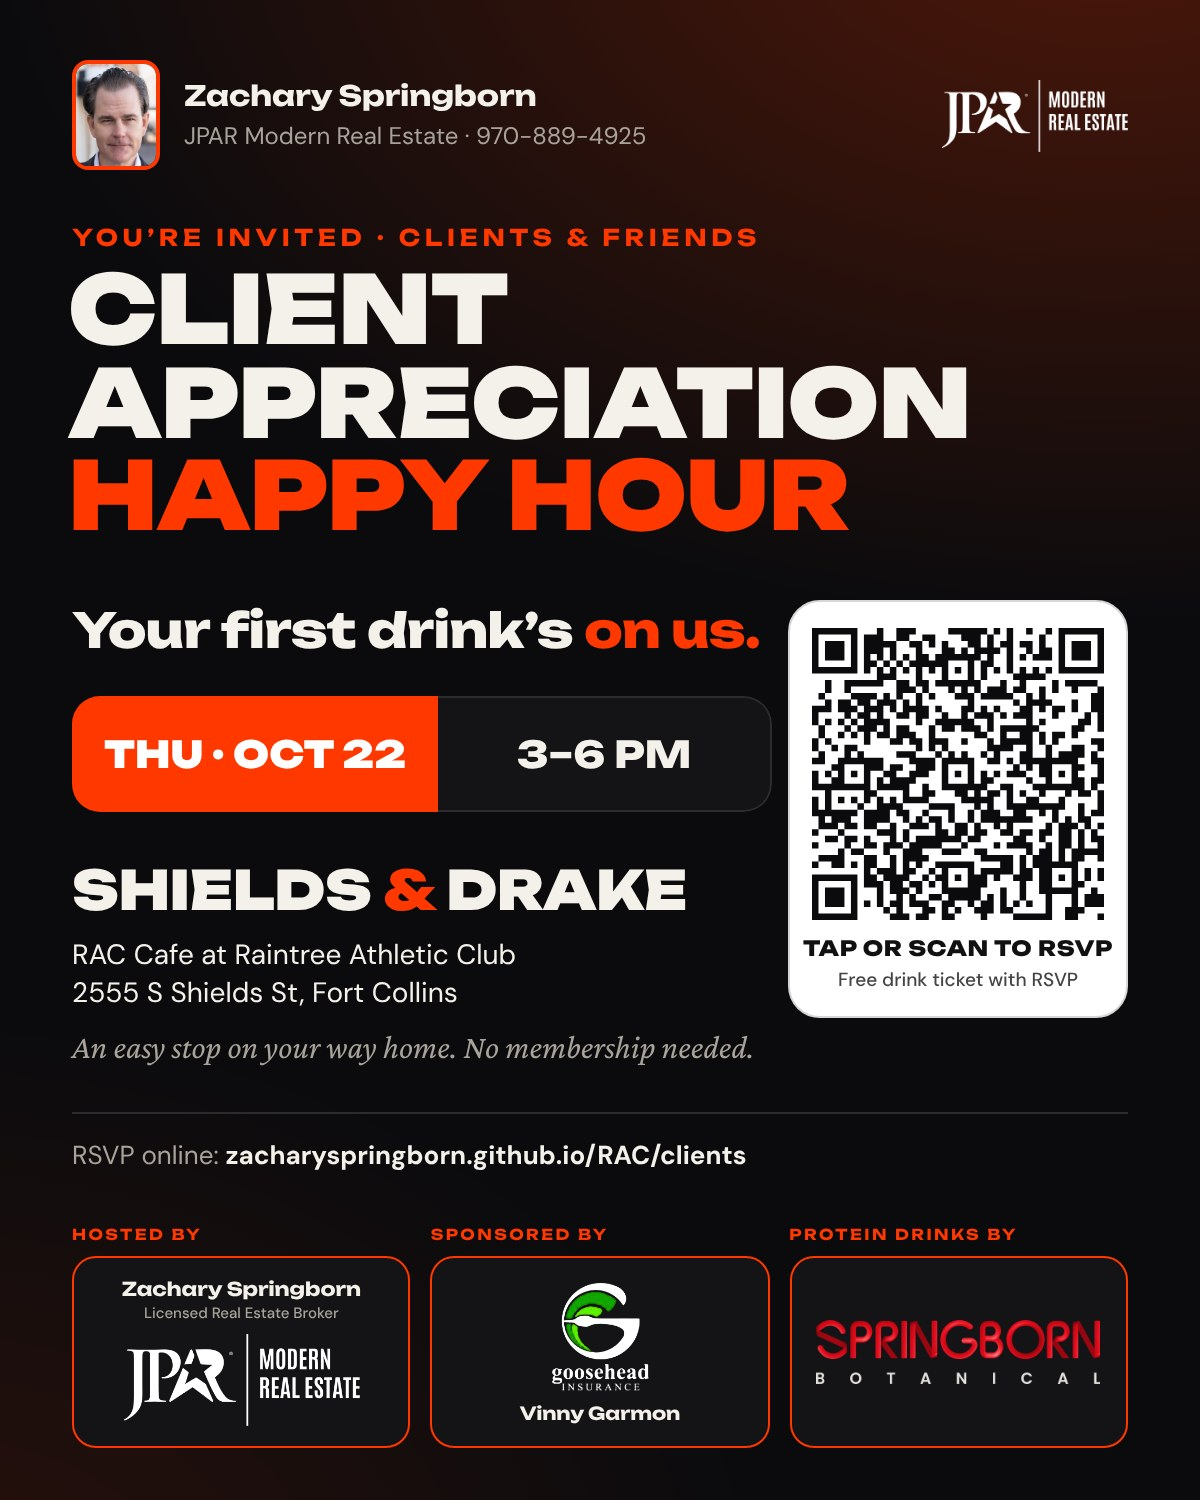
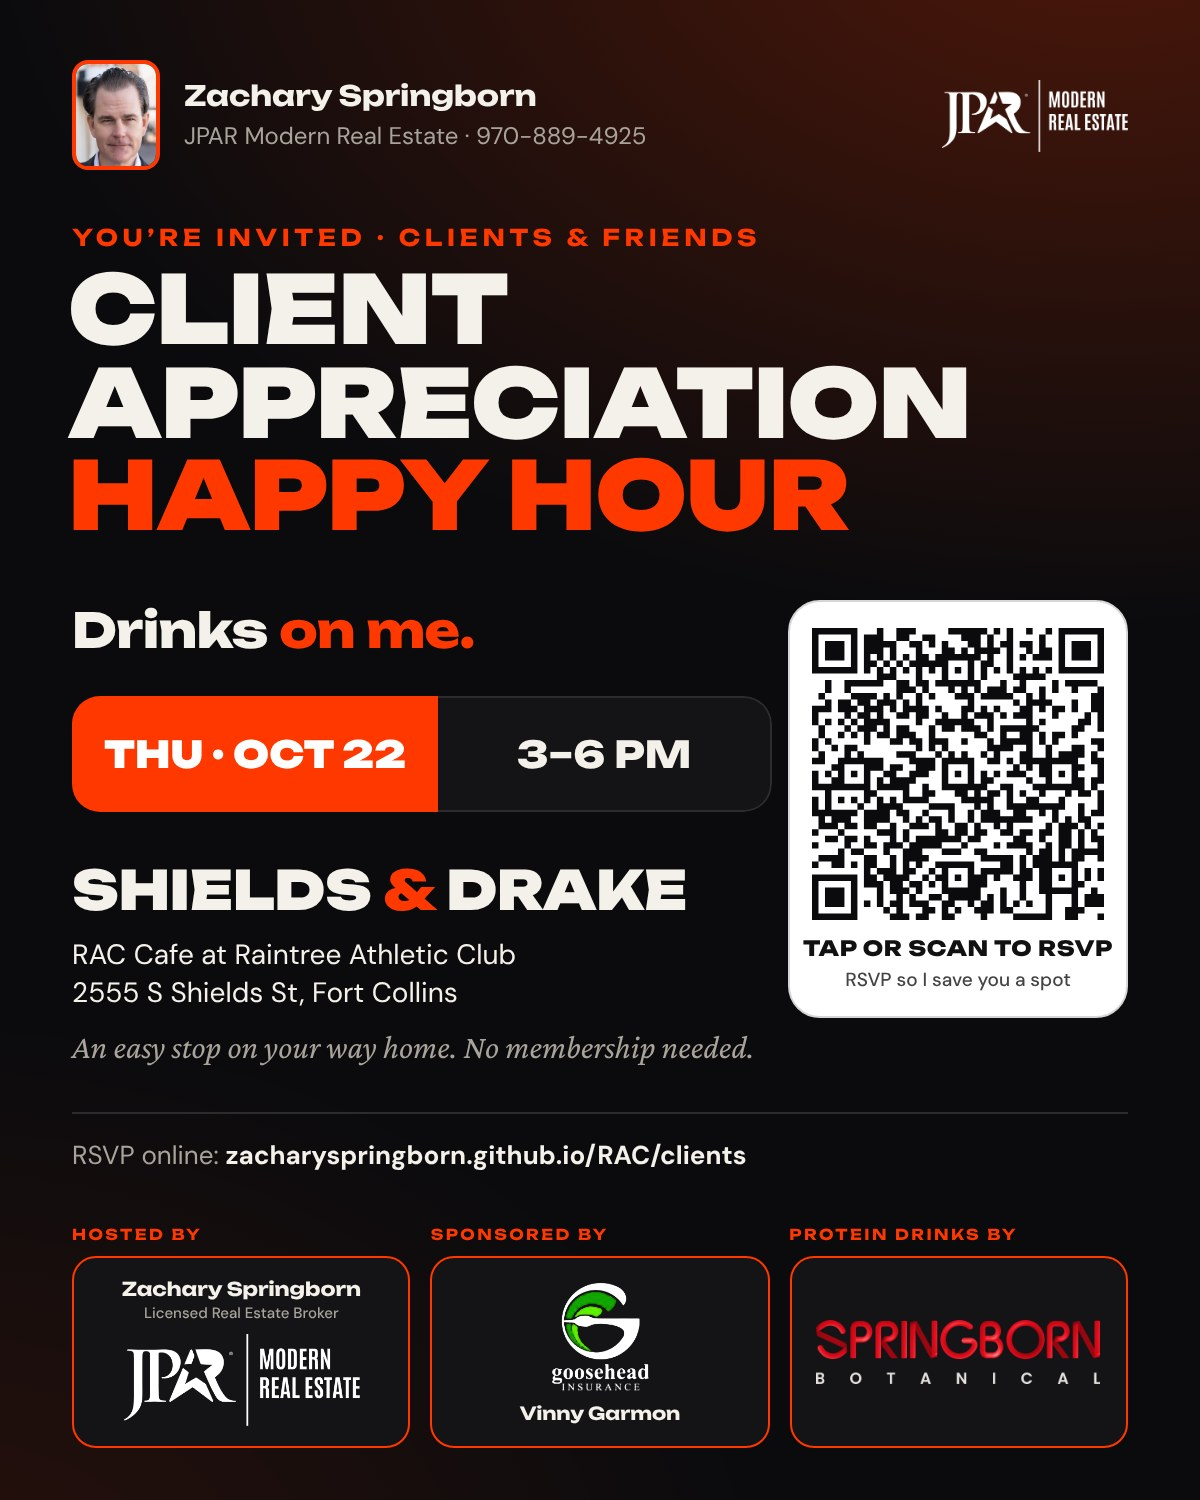
Client page and invite: Drinks on me
Claude-Session: https://claude.ai/code/session_0152czpj6ox5UCfUH6gY24Yk

Changed region(s): [[0.0617, 0.3987, 0.6475, 0.46], [0.7092, 0.644, 0.8942, 0.6747]]

diff --git a/clients/index.html b/clients/index.html
@@ -57,7 +57,7 @@ button.go:hover{filter:brightness(.85)}button.go:disabled{opacity:.6;cursor:wait
 .ticket{display:grid;grid-template-columns:1fr 104px;background:var(--card);border:2px solid var(--accent);border-radius:20px;margin:18px 0 20px;position:relative;overflow:hidden}
 .ticket .main{padding:22px 22px 20px}
 .ticket .stub{background:var(--accent);color:#fff;border-left:2px dashed rgba(255,255,255,.55);display:flex;flex-direction:column;align-items:center;justify-content:center;text-align:center;padding:12px;gap:4px}
-.ticket .stub b{font-family:'Unbounded';font-weight:900;font-size:22px;line-height:1.05;text-transform:uppercase}
+.ticket .stub b{font-family:'Unbounded';font-weight:900;font-size:16px;line-height:1.05;text-transform:uppercase}
 .ticket .stub span{font-size:11px;font-weight:700;letter-spacing:.14em;text-transform:uppercase}
 .ticket h2{font-family:'Unbounded';font-weight:800;font-size:12px;letter-spacing:.18em;text-transform:uppercase;color:var(--accent)}
 .ticket .nm{font-family:'Unbounded';font-weight:800;font-size:clamp(20px,5.4vw,26px);margin:8px 0 2px;word-break:break-word}
@@ -103,11 +103,11 @@ button.go:hover{filter:brightness(.85)}button.go:disabled{opacity:.6;cursor:wait
   <div class="kicker" style="margin-top:28px">You’re invited · Clients &amp; friends</div>
   <h1 style="margin-top:12px">Client Appreciation <em>Happy Hour</em></h1>
   <span class="when" id="whenLine"></span>
-  <p class="intro">A thank-you to the clients and friends of <b>Zachary Springborn, JPAR Modern Real Estate</b>, <b>Vinny Garmon, Goosehead Insurance</b> and <b>Springborn Botanical</b>. Stop by after work, have a drink on us, and catch up.</p>
+  <p class="intro">A thank-you to the clients and friends of <b>Zachary Springborn, JPAR Modern Real Estate</b>, <b>Vinny Garmon, Goosehead Insurance</b> and <b>Springborn Botanical</b>. Stop by after work, drinks are on me, and let’s catch up.</p>
   <div class="loc"><svg width="26" height="26" viewBox="0 0 24 24" fill="none" stroke="currentColor" stroke-width="2.2" stroke-linecap="round" stroke-linejoin="round"><path d="M12 21s-7-6.2-7-11.5A7 7 0 0 1 19 9.5C19 14.8 12 21 12 21z"/><circle cx="12" cy="9.5" r="2.6"/></svg>
     <div><div class="big">Shields &amp; Drake</div><div class="addr">RAC Cafe at Raintree Athletic Club<br>2555 S Shields St, Fort Collins</div><div class="note">An easy stop on your way home. No membership needed.</div>
     <a href="https://www.google.com/maps/search/?api=1&amp;query=Raintree+Athletic+Club+2555+S+Shields+St+Fort+Collins+CO" target="_blank" rel="noopener">Get directions →</a></div></div>
-  <ul class="perks"><li>Your first drink’s on us: wine, beer, or a plant-based protein shake from Springborn Botanical.</li><li>Snacks, good company, come and go any time from 3 to 6.</li><li>Bring someone along. Each RSVP’d guest gets a free drink.</li></ul>
+  <ul class="perks"><li><b>Drinks on me:</b> wine, beer, or a plant-based protein shake from Springborn Botanical.</li><li>Snacks, good company, come and go any time from 3 to 6.</li><li>Bring someone along. Just include them in your party count.</li></ul>
   <div class="confirm">Confirm your spot</div>
   <div id="banner"></div>
   <form id="rsvp" novalidate autocomplete="on">
@@ -129,13 +129,13 @@ button.go:hover{filter:brightness(.85)}button.go:disabled{opacity:.6;cursor:wait
 
 <section id="ticketview" hidden>
   <div class="ok">You're on the list. See you there!</div>
-  <h1 style="margin-top:6px;font-size:clamp(24px,6.6vw,34px)">Here's your <em>free drink ticket</em></h1>
+  <h1 style="margin-top:6px;font-size:clamp(24px,6.6vw,34px)">Here's your <em>drinks ticket</em></h1>
   <div class="ticket" id="ticket">
     <div class="main"><h2>Client Appreciation Happy Hour</h2>
       <div class="nm" id="t-name"></div><div class="pt" id="t-party"></div>
       <div class="code" id="t-code"></div>
       <div class="ev"><b id="t-when"></b><span id="t-where"></span></div></div>
-    <div class="stub"><b>Free<br>drink</b><span>Show at<br>the bar</span></div>
+    <div class="stub"><b>Drinks<br>on me</b><span>Show at<br>the bar</span></div>
   </div>
   <p class="how"><b>Show this ticket at the RAC Cafe bar.</b> Take a screenshot so you have it handy. Your name is on the list, so we can find you even without it. The RAC Cafe is just inside Raintree Athletic Club at Shields &amp; Drake.</p>
   <div class="actions"><button class="btn" id="calBtn" type="button">Add to calendar</button><button class="btn ghost" id="printBtn" type="button">Print or save as PDF</button><button class="btn ghost" id="againBtn" type="button">RSVP someone else</button></div>
@@ -168,7 +168,7 @@ function makeCode(){const a="ABCDEFGHJKLMNPQRSTUVWXYZ23456789";let s="";const r=
 function store(o){try{localStorage.setItem(KEY,JSON.stringify(o))}catch(e){}}
 function load(){try{return JSON.parse(localStorage.getItem(KEY)||"null")}catch(e){return null}}
 function showTicket(t){
-  $("#t-name").textContent=t.name; $("#t-party").textContent=(t.party>1?"Party of "+t.party+" · one free drink each":"One free drink");
+  $("#t-name").textContent=t.name; $("#t-party").textContent=(t.party>1?"Party of "+t.party+" · drinks on Zachary":"Drinks on Zachary");
   $("#t-code").textContent=t.code; $("#t-when").textContent=EVENT.dateText+" · "+EVENT.timeText; $("#t-where").textContent=EVENT.place;
   $("#formview").hidden=true; $("#ticketview").hidden=false; window.scrollTo(0,0);
 }
@@ -201,7 +201,7 @@ $("#againBtn").addEventListener("click",()=>{try{localStorage.removeItem(KEY)}ca
 $("#calBtn").addEventListener("click",()=>{
   const ics=["BEGIN:VCALENDAR","VERSION:2.0","PRODID:-//RAC Happy Hour//EN","BEGIN:VEVENT","UID:"+EVENT.id+"@zacharyspringborn.github.io",
     "DTSTAMP:"+new Date().toISOString().replace(/[-:]|\.\d{3}/g,""),"DTSTART;TZID=America/Denver:"+EVENT.ymd+"T"+EVENT.startHM+"00","DTEND;TZID=America/Denver:"+EVENT.ymd+"T"+EVENT.endHM+"00",
-    "SUMMARY:"+EVENT.title+" (Shields & Drake)","LOCATION:"+EVENT.place.replace(/,/g,"\\,"),"DESCRIPTION:Show your free drink ticket at the RAC Cafe bar.","END:VEVENT","END:VCALENDAR"].join("\r\n");
+    "SUMMARY:"+EVENT.title+" (Shields & Drake)","LOCATION:"+EVENT.place.replace(/,/g,"\\,"),"DESCRIPTION:Show your ticket at the RAC Cafe bar. Drinks on Zachary.","END:VEVENT","END:VCALENDAR"].join("\r\n");
   const a=document.createElement("a"); a.href=URL.createObjectURL(new Blob([ics],{type:"text/calendar"})); a.download="client-appreciation-happy-hour.ics"; document.body.appendChild(a); a.click(); a.remove();
 });
 const saved=load(); if(saved&&saved.code) showTicket(saved);
